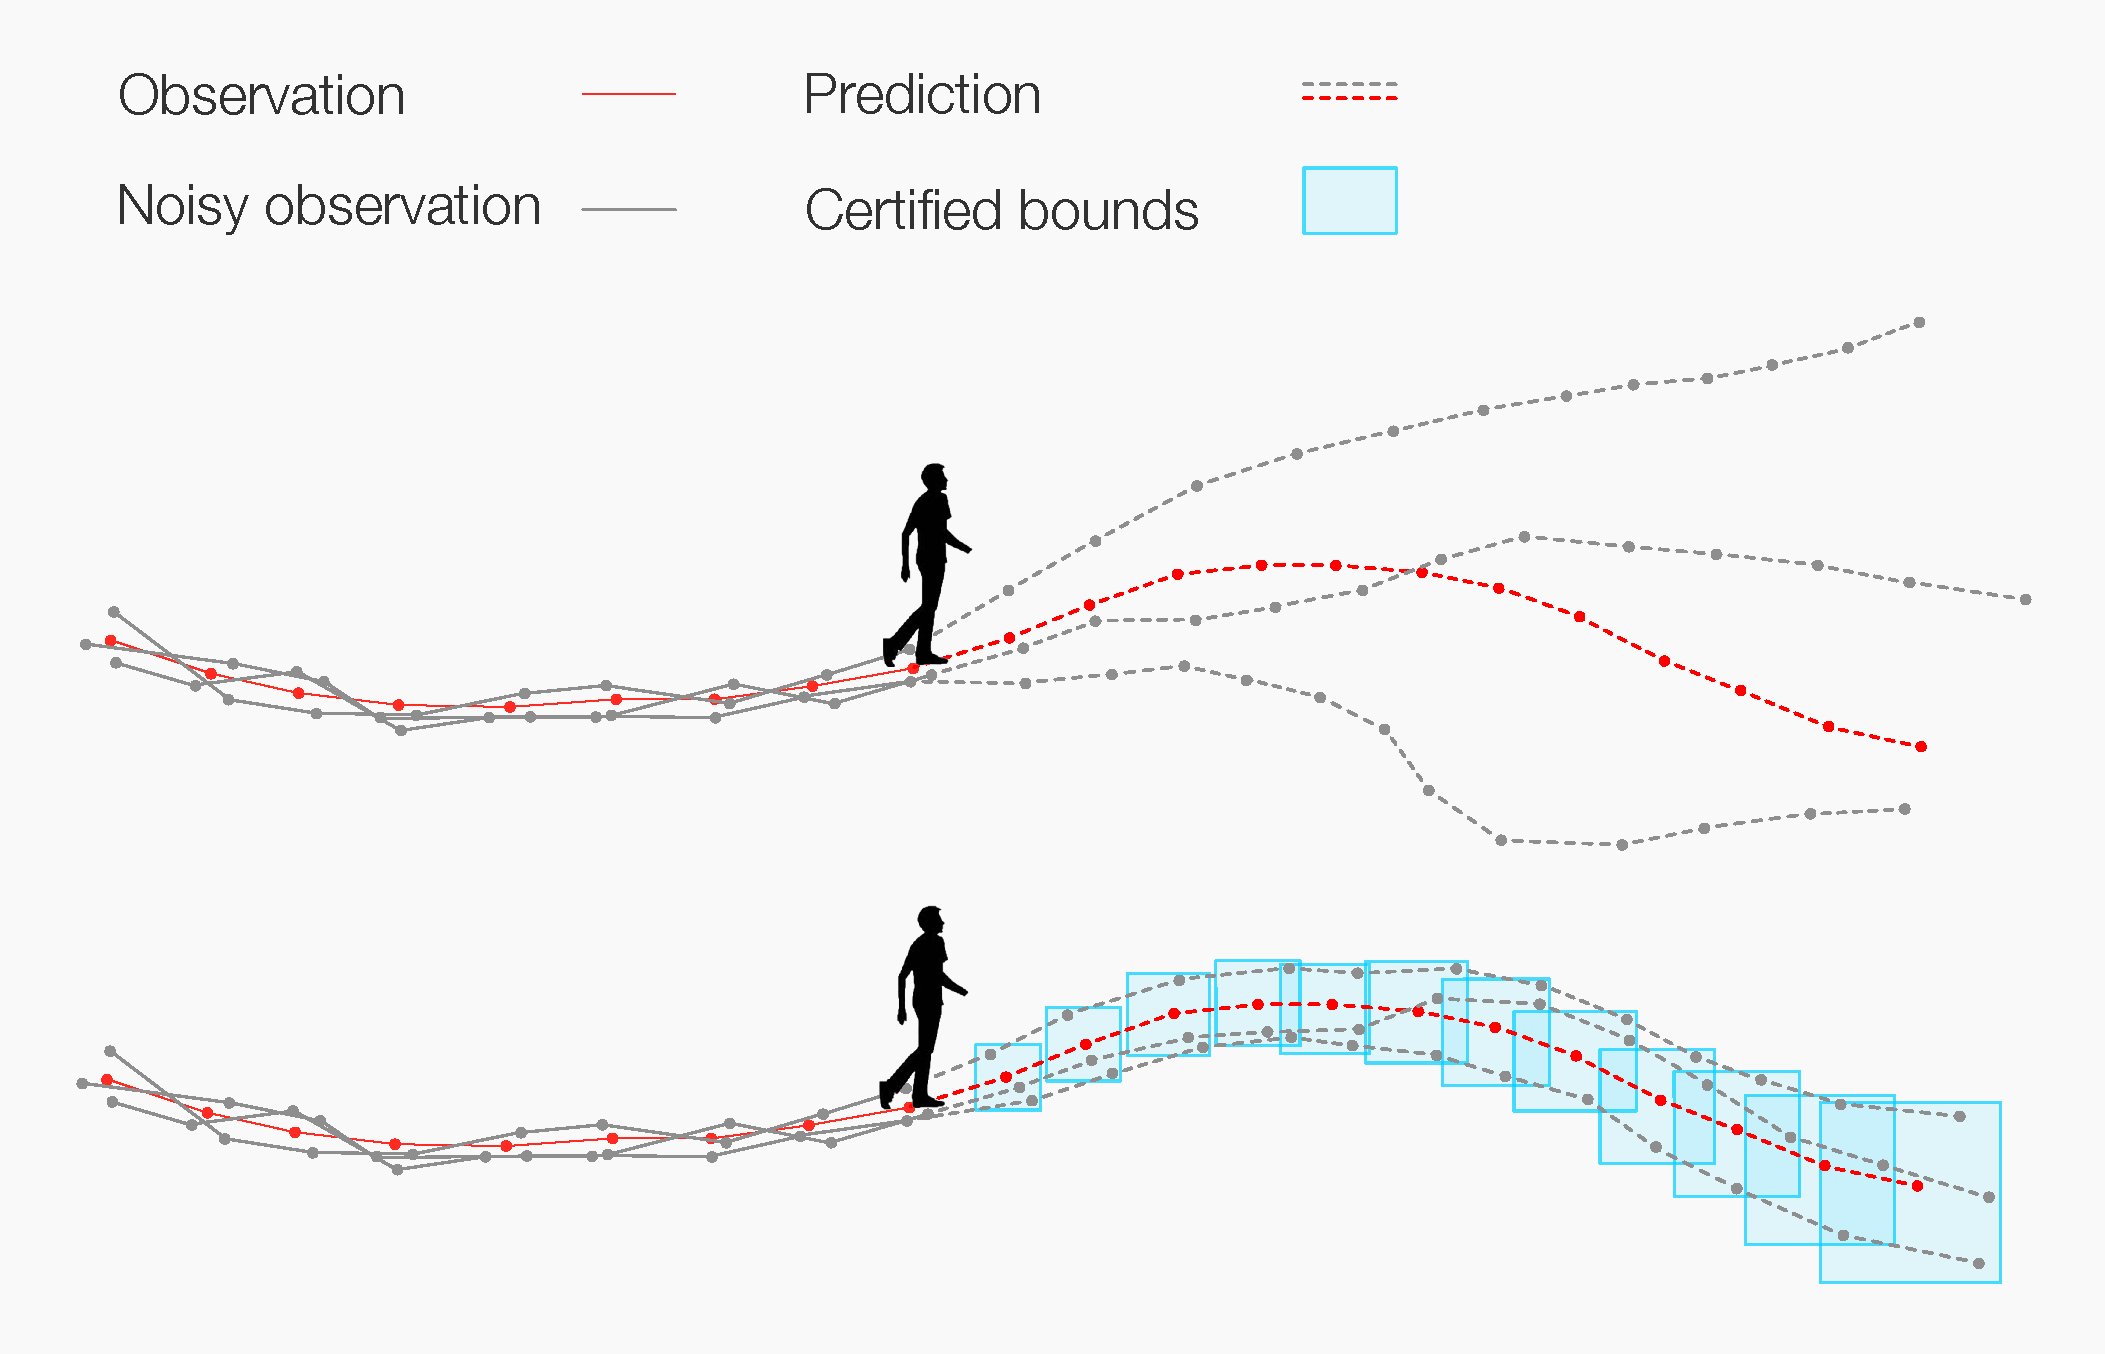
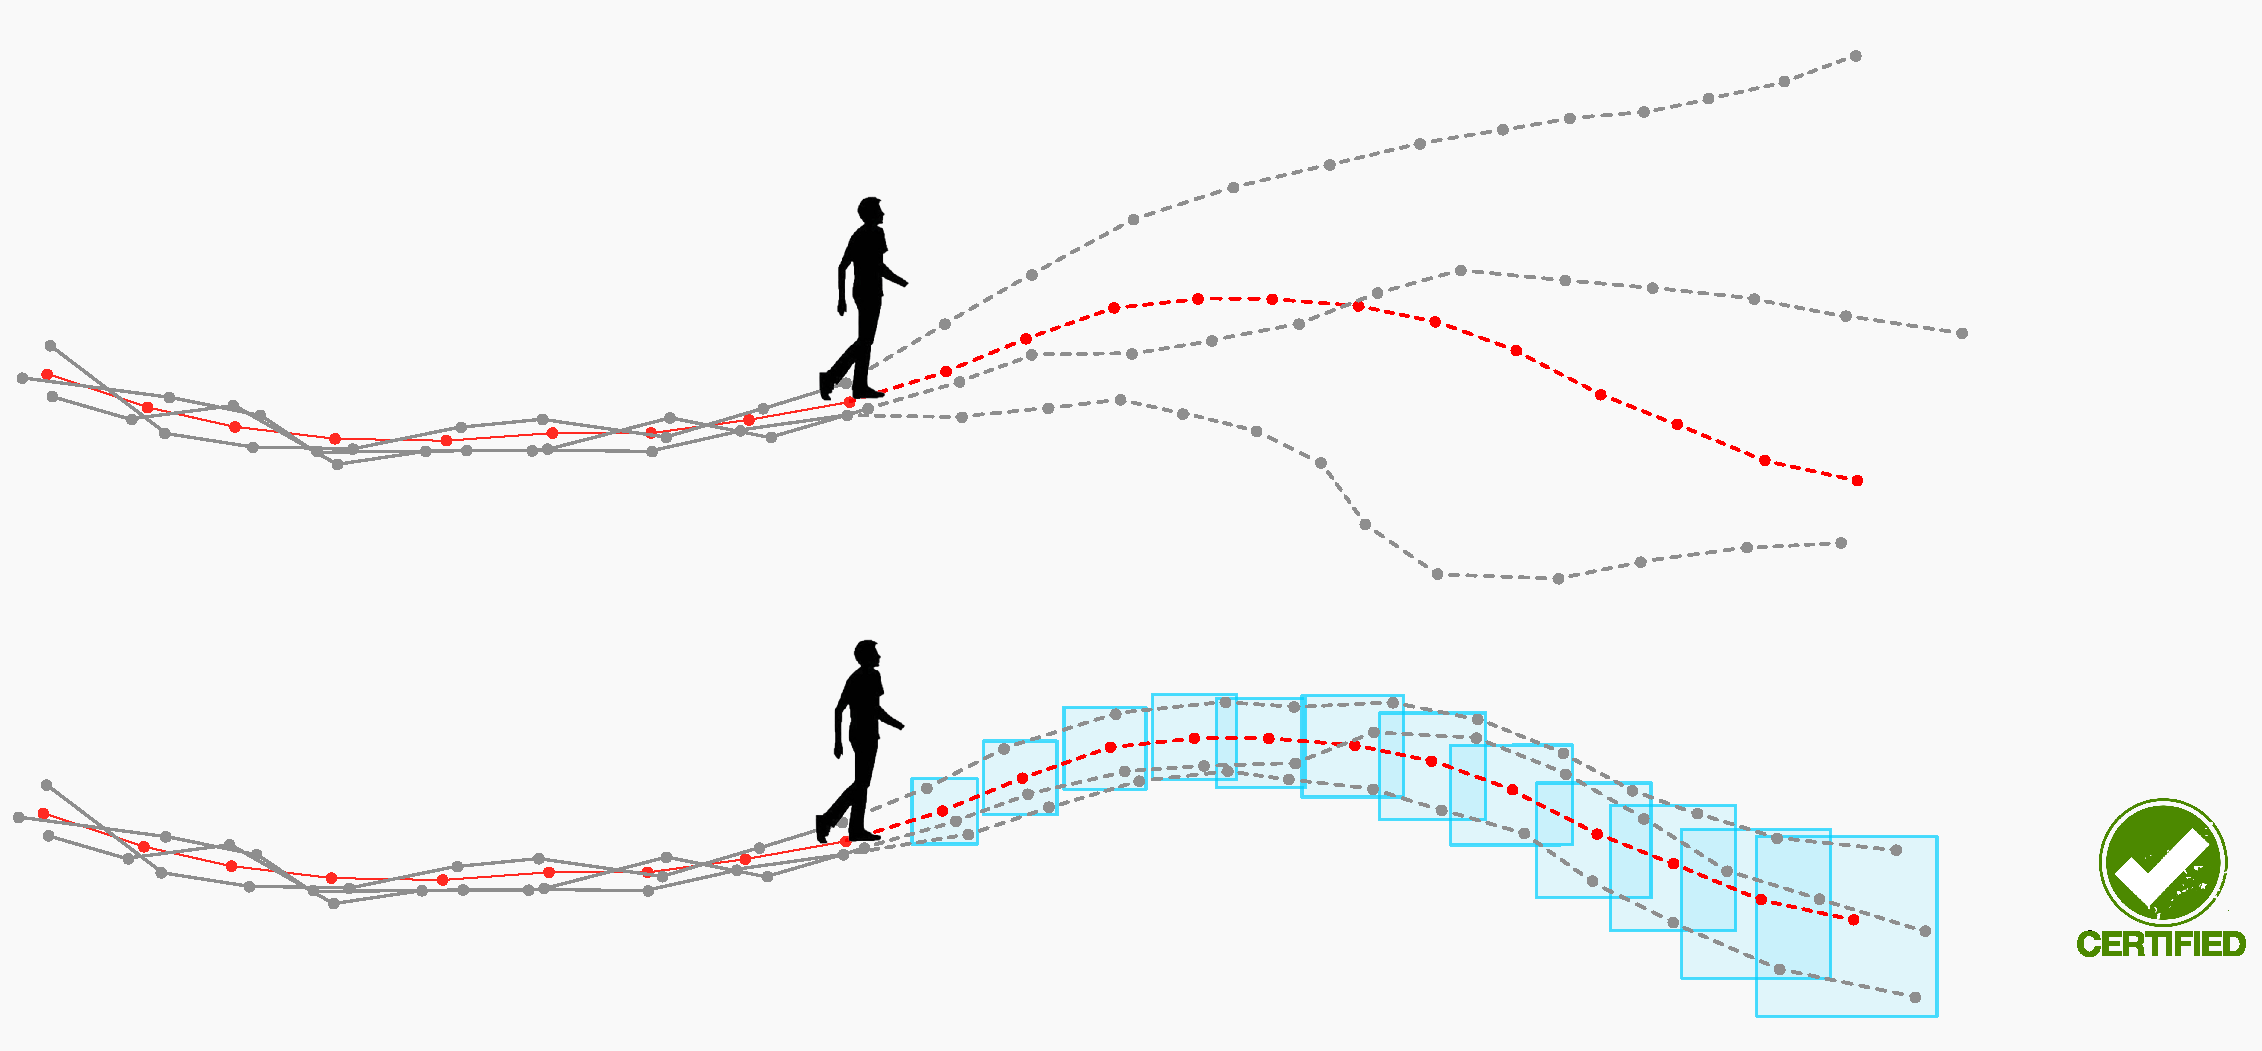
certified added

diff --git a/index.html b/index.html
@@ -348,6 +348,30 @@ img.emoji {
 		</section>
 				<section class="elementor-section elementor-top-section elementor-element elementor-element-9c4854a elementor-section-boxed elementor-section-height-default elementor-section-height-default" data-id="9c4854a" data-element_type="section">
 						<div class="elementor-container elementor-column-gap-default">
+		
+					<div class="elementor-column elementor-col-50 elementor-top-column elementor-element elementor-element-aeeb889" data-id="aeeb889" data-element_type="column">
+								<div class="elementor-widget-wrap elementor-element-populated">
+													<div class="elementor-element elementor-element-d4319c0 elementor-position-top elementor-vertical-align-top elementor-widget elementor-widget-image-box" data-id="d4319c0" data-element_type="widget" data-widget_type="image-box.default">
+									<div class="elementor-widget-container">
+								<div class="elementor-image-box-wrapper"><figure class="elementor-image-box-img"><img width="2343" height="798" src="./S-attack Library_files/pull.png" class="elementor-animation-grow attachment-full size-full" alt="" loading="lazy"></figure><div class="elementor-image-box-content"><h3 class="elementor-image-box-title"></h3><h1 style="box-sizing: inherit; margin-top: 0px; margin-bottom: 1.5rem; padding: 0px; font-size: 3rem; word-break: break-word; color: rgb(54, 54, 54); line-height: 1.125; font-family: &quot;Google Sans&quot;, sans-serif; white-space: normal;">Are socially-aware trajectory prediction models<p style="box-sizing: inherit; margin-bottom: 0px; padding: 0px;"></p>?really socially-aware</h1><p class="elementor-image-box-description"></p><p dir="ltr">
+					<span style="color: rgb(74, 74, 74); font-family: &quot;Noto Sans&quot;, sans-serif; font-size: 16px; white-space: normal;">Given the observation trajectories of the agents in the scene, a predictor (here S-LSTM) forecasts the future positions reasonably (blue lines). However, with less than 5cm perturbation in the observation trajectory (in red), an unacceptable collision is predicted.</span>
+					</p><p></p></div></div>		</div>
+									</div>
+									<div class="elementor-element elementor-element-2530d47 elementor-align-center elementor-widget elementor-widget-button" data-id="2530d47" data-element_type="widget" data-widget_type="button.default">
+									<div class="elementor-widget-container">
+										<div class="elementor-button-wrapper">
+								<a href="https://s-attack.github.io/social-attack" class="elementor-button-link elementor-button elementor-size-xs" role="button">
+											<span class="elementor-button-content-wrapper">
+											
+											<span class="elementor-button-text">Website</span>
+							</span>
+										</a>
+							</div>
+									</div>
+									</div>
+										</div>
+							</div>
+
 					<div class="elementor-column elementor-col-50 elementor-top-column elementor-element elementor-element-781530d" data-id="781530d" data-element_type="column">
 			<div class="elementor-widget-wrap elementor-element-populated">
 								<div class="elementor-element elementor-element-c179500 elementor-position-top elementor-vertical-align-top elementor-widget elementor-widget-image-box" data-id="c179500" data-element_type="widget" data-widget_type="image-box.default">
@@ -369,38 +393,28 @@ img.emoji {
 				</div>
 					</div>
 		</div>
-				<div class="elementor-column elementor-col-50 elementor-top-column elementor-element elementor-element-aeeb889" data-id="aeeb889" data-element_type="column">
-			<div class="elementor-widget-wrap elementor-element-populated">
-								<div class="elementor-element elementor-element-d4319c0 elementor-position-top elementor-vertical-align-top elementor-widget elementor-widget-image-box" data-id="d4319c0" data-element_type="widget" data-widget_type="image-box.default">
-				<div class="elementor-widget-container">
-			<div class="elementor-image-box-wrapper"><figure class="elementor-image-box-img"><img width="2343" height="798" src="./S-attack Library_files/pull.png" class="elementor-animation-grow attachment-full size-full" alt="" loading="lazy"></figure><div class="elementor-image-box-content"><h3 class="elementor-image-box-title"></h3><h1 style="box-sizing: inherit; margin-top: 0px; margin-bottom: 1.5rem; padding: 0px; font-size: 3rem; word-break: break-word; color: rgb(54, 54, 54); line-height: 1.125; font-family: &quot;Google Sans&quot;, sans-serif; white-space: normal;">Are socially-aware trajectory prediction models<p style="box-sizing: inherit; margin-bottom: 0px; padding: 0px;"></p>?really socially-aware</h1><p class="elementor-image-box-description"></p><p dir="ltr">
-<span style="color: rgb(74, 74, 74); font-family: &quot;Noto Sans&quot;, sans-serif; font-size: 16px; white-space: normal;">Given the observation trajectories of the agents in the scene, a predictor (here S-LSTM) forecasts the future positions reasonably (blue lines). However, with less than 5cm perturbation in the observation trajectory (in red), an unacceptable collision is predicted.</span>
-</p><p></p></div></div>		</div>
-				</div>
-				<div class="elementor-element elementor-element-2530d47 elementor-align-center elementor-widget elementor-widget-button" data-id="2530d47" data-element_type="widget" data-widget_type="button.default">
-				<div class="elementor-widget-container">
-					<div class="elementor-button-wrapper">
-			<a href="https://s-attack.github.io/social-attack" class="elementor-button-link elementor-button elementor-size-xs" role="button">
-						<span class="elementor-button-content-wrapper">
-						
-						<span class="elementor-button-text">Website</span>
-		</span>
-					</a>
-		</div>
-				</div>
-				</div>
-					</div>
-		</div>
+				
 		<div class="elementor-column elementor-col-50 elementor-top-column elementor-element elementor-element-aeeb889" data-id="aeeb889" data-element_type="column">
 			<div class="elementor-widget-wrap elementor-element-populated">
 								<div class="elementor-element elementor-element-d4319c0 elementor-position-top elementor-vertical-align-top elementor-widget elementor-widget-image-box" data-id="d4319c0" data-element_type="widget" data-widget_type="image-box.default">
 				<div class="elementor-widget-container">
 			<div class="elementor-image-box-wrapper"><figure class="elementor-image-box-img"><img width="2343" height="798" src="./S-attack Library_files/pull3.png" class="elementor-animation-grow attachment-full size-full" alt="" loading="lazy"></figure><div class="elementor-image-box-content"><h3 class="elementor-image-box-title"></h3><h1 style="box-sizing: inherit; margin-top: 0px; margin-bottom: 1.5rem; padding: 0px; font-size: 3rem; word-break: break-word; color: rgb(54, 54, 54); line-height: 1.125; font-family: &quot;Google Sans&quot;, sans-serif; white-space: normal;">Certified Human Trajectory Prediction<p style="box-sizing: inherit; margin-bottom: 0px; padding: 0px;"></p></h1><p class="elementor-image-box-description"></p><p dir="ltr">
-<span style="color: rgb(74, 74, 74); font-family: &quot;Noto Sans&quot;, sans-serif; font-size: 16px; white-space: normal;">Coming soon ...</span>
+<span style="color: rgb(74, 74, 74); font-family: &quot;Noto Sans&quot;, sans-serif; font-size: 16px; white-space: normal;">The certified trajectory predictors provide guaranteed performance even if the input is noisy.</span>
 </p><p></p></div></div>		</div>
-				</div>
-					</div>
-		</div>
+</div>
+<div class="elementor-element elementor-element-988f449 elementor-align-center elementor-widget elementor-widget-button" data-id="988f449" data-element_type="widget" data-widget_type="button.default">
+<div class="elementor-widget-container">
+	<div class="elementor-button-wrapper">
+<a href="https://s-attack.github.io/certified" class="elementor-button-link elementor-button elementor-size-xs" role="button">
+		
+		<span class="elementor-button-text">Website</span>
+</span>
+	</a>
+</div>
+</div>
+</div>
+	</div>
+</div>
 							</div>
 		</section>
 				<section class="elementor-section elementor-top-section elementor-element elementor-element-7596f64 elementor-section-boxed elementor-section-height-default elementor-section-height-default" data-id="7596f64" data-element_type="section">
